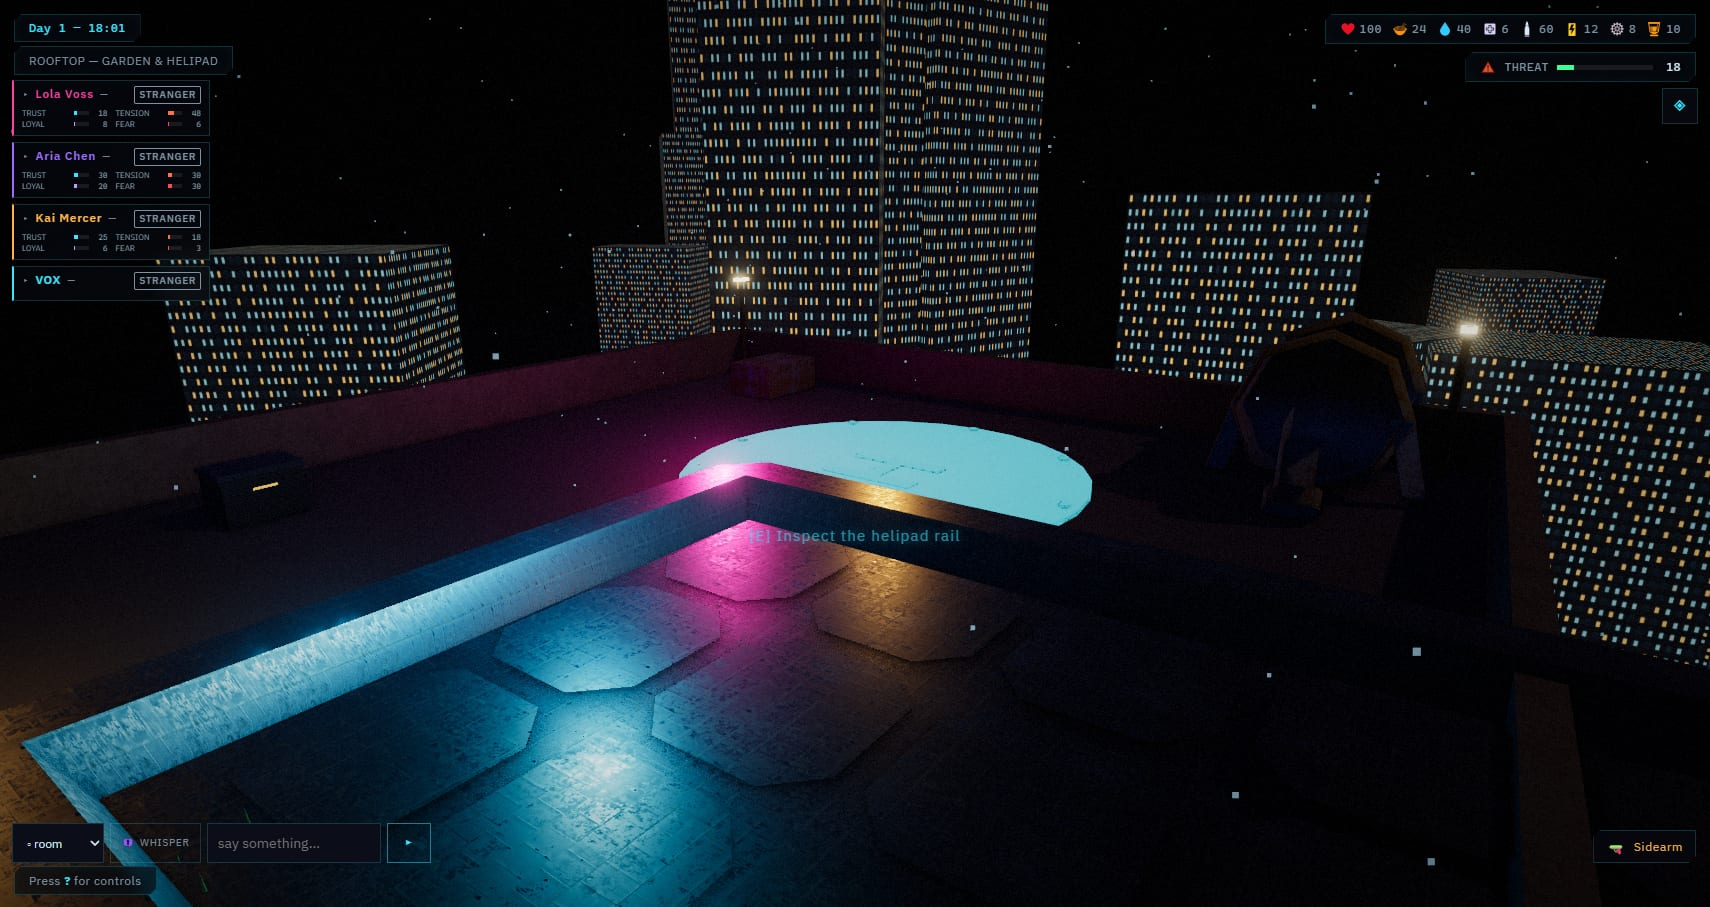
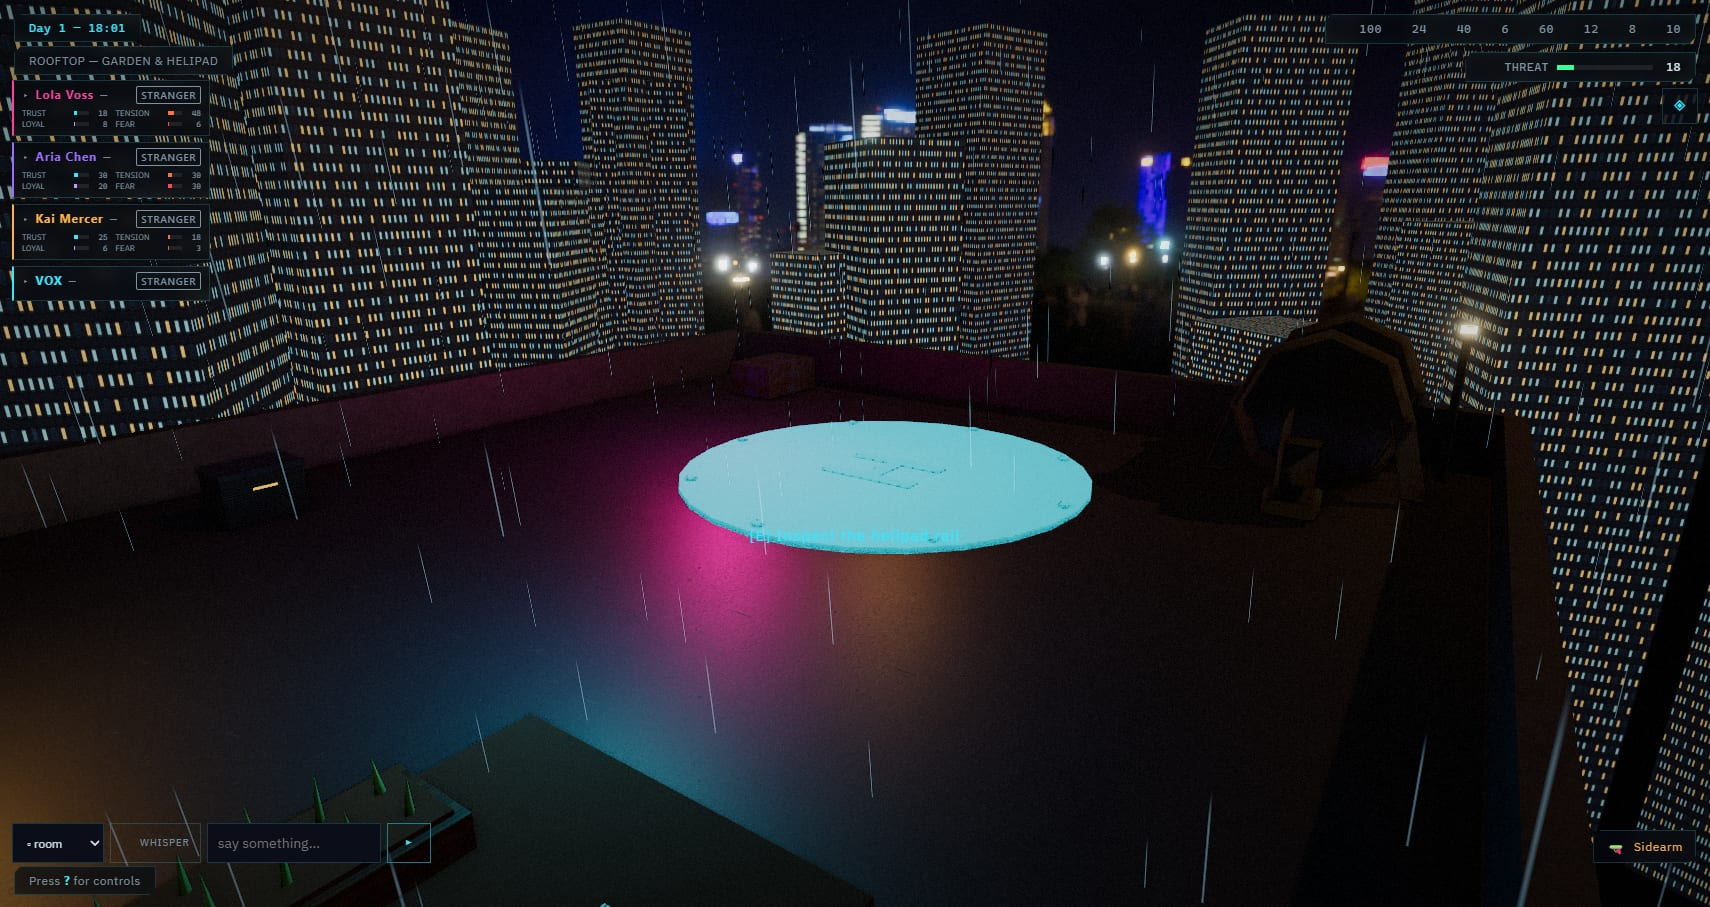
docs: v0.7.0-beta.1 — HDRI lighting, skyline dome, rain
Version bump, CHANGELOG entry, and doc coverage for what shipped in
beta.1 (tasks 17-20 + this stage's fix round): HDRI IBL with a
dip-and-swap crossfade, the folded skyline dome with per-tower window
offsets, reflect-boosted glossy architecture, and instanced rain with
droplets on exterior glass (interior panes stay dry).

- package.json, CHANGELOG.md, AGENTS.md (version + roadmap) to beta.1.
- AGENTS.md: new Architecture-spine bullet on shader patches — replace
  vs. chain ordering, keepPatchOnClone, test against r185's real
  ShaderLib.
- New docs/config/render.md (the render group was undocumented since
  Task 19 added render.hdri.*); linked from docs/config/README.md.
- docs/config/lighting.md: document the per-preset `ibl` block.
- docs/systems/scene-audio-ui.md: new "Environment & exterior"
  subsection covering EnvBuilder, Lighting's dip-and-swap, the dome,
  the towers, and rain.
- README: Procedural 3D bullet reflects HDRI/skyline/rain; real test
  counts (397 unit, 15 e2e); re-captured penthouse-lounge/bar/rooftop/
  exterior screenshots (the committed ones predated tasks 18-20); the
  alpha.2 before/after row now points at a frozen
  docs/screenshots/v0.7-alpha.2/ copy instead of the now-updated
  current one; added a v0.6-vs-beta.1 exterior before/after row (flat
  billboard skyline vs. the HDRI dome + rain).

diff --git a/docs/config/render.md b/docs/config/render.md
@@ -1,0 +1,84 @@
+# config/render.yaml
+
+The post-FX stack, shadow quality, and the HDRI behind image-based lighting and the
+exterior sky dome. Defaults in `data/configDefaults.js` → `render`, range-checked by
+`data/configSchema.js`. These are the same values the in-game Settings screen writes
+(`src/ui/settingsPanel.js` → `applyConfig`), so editing here changes the defaults a new
+player starts from. Read via `cfg('render.…')`.
+
+Before v0.5 every one of these was hard-coded across `src/scene3d/*`, so a player whose
+machine couldn't afford the post-FX stack had no way to turn any of it down.
+
+## Top-level
+
+| Key | Type | Default | Range | Effect |
+|-----|------|---------|-------|--------|
+| `shadows` | string | `soft` | `off` \| `hard` \| `soft` | `hard` is `PCFShadowMap` — one texel of penumbra, which reads as a jagged stencil at this map size. `soft` is `PCFSoftShadowMap`, the difference between "there is a shadow here" and "this thing is standing on this floor". Turn this down first if the game runs hot. |
+| `shadowMapSize` | number | `2048` | 512 \| 1024 \| 2048 \| 4096 | Per-side texels for the key light's shadow map. |
+| `fov` | number | `55` | 30–110 | Vertical field of view, degrees. Applies on reload (the camera is built once). |
+
+## `ao` — screen-space ambient occlusion
+
+Contact darkening in creases and where objects meet the floor (`src/scene3d/aoPass.js`).
+Without it, a PBR scene under an IBL environment fills every crevice with uniform ambient
+and everything reads as a decal sitting ON the floor rather than IN the room. Measured
+cost at 1912×961: about 1.5 ms/frame.
+
+| Key | Default | Range | Effect |
+|-----|---------|-------|--------|
+| `enabled` | `true` | boolean | Toggle the whole pass. |
+| `radius` | `0.45` | 0.05–3 | World-space sample radius, metres. |
+| `intensity` | `0.9` | 0–2 | 0 = no darkening, 1 = full occlusion in creases (values above 1 push it further). |
+| `bias` | `0.025` | 0.001–0.5 | Depth slack, metres — too low and flat surfaces self-occlude (acne). |
+| `samples` | `12` | 4–32 | Hemisphere taps per pixel; this is a shader `#define`, so changing it rebuilds the AO shader. |
+
+## `bloom`
+
+LINEAR HDR, applied BEFORE tone-mapping — `threshold` is not a 0..1 brightness. The default
+1.55 sits above lit skin and hair and below the neon core (~2.4), so only things that are
+actually emissive glow. Lowering it makes the cast's own specular highlights bloom into
+blobs on every head.
+
+| Key | Default | Range | Effect |
+|-----|---------|-------|--------|
+| `strength` | `0.42` | 0–3 | Bloom intensity. |
+| `radius` | `0.40` | 0–2 | Bloom spread. |
+| `threshold` | `1.55` | 0–8 | Linear-HDR cutoff below which nothing blooms. |
+
+## `grain`
+
+Film grain and vignette, applied after tone-mapping in display colour.
+
+| Key | Default | Range | Effect |
+|-----|---------|-------|--------|
+| `amount` | `0.055` | 0–0.4 | Grain strength. |
+| `vignette` | `0.42` | 0–1.5 | Edge darkening strength. |
+
+## `hdri` — image-based lighting + the exterior sky dome
+
+The HDRI is a photograph in **absolute radiance** (street lamps read ~20000), so it needs
+grading before it can light a scene tuned for a procedural sky well under 0.1. The quality
+preset picks the resolution (`assets/manifest.json` has `${id}_1k` and `${id}_2k`); the
+per-preset `lighting.presets.*.ibl` block (`docs/config/lighting.md`) grades it further —
+tint, exposure and rotation — on top of these.
+
+| Key | Default | Range | Effect |
+|-----|---------|-------|--------|
+| `id` | `shanghai_bund` | string | Which HDRI equirect (Poly Haven, CC0) to load for both the IBL capture and the visible dome. |
+| `gain` | `0.14` | 0–2 | Scales the photograph's raw radiance down to the IBL capture's level. Applies on the next environment rebuild. |
+| `clamp` | `3.0` | 1.05–20 | Soft-knee cap (knee at 1.0) on each texel's brightest channel — shared by the IBL capture **and** the visible dome, so a lamp core keeps its falloff instead of flattening at a hard cap in one but not the other. Too high: pin-sharp lamps in every eye and flaring skyline lamps. Too low: a flat, grey city. The dome reads this when its shader compiles (reload). |
+| `domeGain` | `0.1` | 0–2 | Separate level for the visible exterior dome behind the towers (the IBL capture uses `gain` instead — the dome is seen directly, the capture only lights reflections, so they're tuned independently). |
+
+`src/scene3d/env.js` builds the IBL capture (HDRI or procedural sky, plus the neon sign
+cards and warm floor bounce as local accents) and PMREM-prefilters it; the render target is
+cached and disposed on rebuild, not leaked. `src/scene3d/materials/skyDome.js` renders the
+same equirect directly behind the instanced towers, folded so its skyline half wraps the
+circle and its street-level half fades below the horizon (see
+`docs/systems/scene-audio-ui.md` → Environment & exterior).
+
+## See also
+
+- `docs/config/lighting.md` — per-preset `ibl` grading (`envIntensity`, `rotation`,
+  `skyTint`, `skyExposure`) and the dip-and-swap crossfade.
+- `docs/systems/scene-audio-ui.md` — `EnvBuilder`, `Lighting`, the dome, the towers and
+  rain, wired together.

diff --git a/docs/systems/scene-audio-ui.md b/docs/systems/scene-audio-ui.md
@@ -92,6 +92,52 @@ pattern for any new presentation layer.
   finishes, so nothing pops in as textures or models arrive late. The synchronous
   constructor still builds procedurally (no await) so unit tests stay fast.
 
+### Environment & exterior (`src/scene3d/env.js`, `lighting.js`, `tower/zoneBuilder.js`, `materials/`)
+- **`env.js` — `class EnvBuilder(stage)`** — builds the reflection-probe environment PMREM
+  prefilters: a small neon-noir procedural sky (gradient, horizon glow, sign cards, warm
+  floor bounce) by default, or, once `setHDRI(equirect)` is called, Poly Haven's
+  `shanghai_bund` night-city HDRI in its place (sign cards and floor bounce stay composited
+  in as local accents). `setHDRI` is a no-op if the equirect didn't change. The HDRI is
+  absolute-radiance photography, so the capture grades it through a small `HdriShader`:
+  `texel * skyTint * skyExposure * render.hdri.gain`, soft-knee capped at `render.hdri.clamp`
+  (`envMath.softKnee`, shared with the dome) — ungraded it turned skin chalk-white. The
+  render target is cached per rebuild and disposed, not leaked.
+- **`lighting.js` — `class Lighting`** — each preset's `ibl` block
+  (`envIntensity, rotation, skyTint, skyExposure`, `docs/config/lighting.md`) drives the
+  environment: `_envTarget` is the preset's `environmentIntensity`, and
+  `environmentRotation.y` follows `rotation`. `Lighting.apply(id, fade)` **dips** intensity
+  to 0, swaps the prefiltered map at the bottom (`_swapEnv`), then **brings it back** over
+  `ENV_DIP_SEC` (0.6 s) instead of hard-cutting every reflection in one frame; a preset
+  change mid-dip retargets the in-flight dip instead of popping (`envMath.retargetDip`).
+  `skyColor` lerps from the old preset's grade to the new one across the same fade and calls
+  `onSkyGrade?.(color)` each step — the dome subscribes to this. `await lighting.ready`
+  resolves once the initial `setHDRI` call settles.
+- **The dome (`tower/zoneBuilder.js`)** — `_showDome(ext, eq)` replaces the flat skyline
+  billboard plate with a `SphereGeometry(DOME_RADIUS=180, …)` behind the instanced towers,
+  textured with the same equirect and graded by `materials/skyDome.js`'s `onBeforeCompile`
+  patch (`gain: render.hdri.domeGain`, then the shared soft-knee `clamp`). The panorama's
+  skyline half is mirror-folded around the full circle (street-level facades folded out) and
+  the promenade below the horizon fades out; the dome is unfogged and doesn't write depth so
+  the instanced towers always render in front of it. `setSkyTexture(eq)` swaps dome ↔ plate
+  live; `setSkyGrade(color)` is the `onSkyGrade` sink, copying into a cached `THREE.Color` (no
+  per-frame allocation). The billboard plate remains the `?noassets=1` / no-equirect fallback.
+- **The towers (`materials/cityWindows.js`)** — `cityTowerMaterial(emissiveMap)` patches in
+  an instanced `aWinOffset` vec2 attribute added to `vEmissiveMapUv`, so each tower instance
+  samples a different offset into the shared window texture instead of every tower repeating
+  the same window pattern.
+- **Rain (`rain.js`, `materials/rainGlass.js`)** — `class RainStreaks(vol, rng, {density})` is
+  one instanced, camera-facing, velocity-aligned quad draw animated entirely in the vertex
+  shader from a single `uTime` uniform (no per-frame CPU work); `World3D.setRainDensity(d)`
+  scales streak count and, via the shared `RAIN_GLASS_UNIFORMS` (`uRain`, `uRainTime`), toggles
+  the droplet sheet on every rain-glass pane at once. `applyRainOnGlass` is an
+  `onBeforeCompile` patch that **chains** onto the material's existing one (see
+  `materials/reflectBoost.js` — glossy architecture's specular IBL lobe is boosted the same
+  way) rather than replacing it, extends the cache key, is idempotent under a repeat call, and
+  is applied only to **exterior** panes (curtain wall, wing window, lobby front); interior
+  panes (e.g. the fl40 blast-glass port) get the reflect boost only, via `interiorGlassMat()` —
+  no weather on either side of them. `rain.js` exports `TIME_WRAP` (3600 s) so the glass
+  uniform and the streak shader wrap on the same schedule.
+
 ### Asset facade (`src/assets/`)
 - **`assets.js` — `createAssets({loaders, enabled, base, fetchJson, manifestTimeoutMs, log})`** —
   the one door for binary assets. `init()` reads `assets/manifest.json` (10 s timeout); then

diff --git a/README.md b/README.md
@@ -82,7 +82,11 @@ generated or hand-authored**. The only third-party runtime dependency is three.j
   </tr>
   <tr>
     <td><img src="docs/screenshots/v0.6/03-penthouse-lounge.jpg" alt="Penthouse lounge, v0.6"><br><sub><b>Before (v0.6)</b> — the penthouse lounge on the old canvas textures.</sub></td>
-    <td><img src="docs/screenshots/03-penthouse-lounge.jpg" alt="Penthouse lounge, alpha.2"><br><sub><b>After (alpha.2)</b> — the same lounge on the PBR material library: world-scale UVs, bevelled hero furniture, measured tint and roughness.</sub></td>
+    <td><img src="docs/screenshots/v0.7-alpha.2/03-penthouse-lounge.jpg" alt="Penthouse lounge, alpha.2"><br><sub><b>After (alpha.2)</b> — the same lounge on the PBR material library: world-scale UVs, bevelled hero furniture, measured tint and roughness.</sub></td>
+  </tr>
+  <tr>
+    <td><img src="docs/screenshots/v0.6/16-exterior.jpg" alt="Exterior view, v0.6"><br><sub><b>Before (v0.6)</b> — the flat two-tone skyline billboard behind the towers.</sub></td>
+    <td><img src="docs/screenshots/16-exterior.jpg" alt="Exterior view, beta.1"><br><sub><b>After (beta.1)</b> — a real HDRI night city on a folded skyline dome, graded by the lighting preset, with rain streaking past the towers.</sub></td>
   </tr>
 </table>
 
@@ -114,9 +118,10 @@ generated or hand-authored**. The only third-party runtime dependency is three.j
   (procedural gait, pose clips, additive breathing, gaze). 14 zones across 7
   floors built from a PBR material library (Poly Haven scans, procedural
   fallback) with world-scale UVs and bevelled hero furniture, elevator
-  transit, 10 lighting presets, time-of-day, a procedural city backdrop,
-  rain, news-ticker monitors, and **openable velvet curtains** that draw
-  across the glass to shut out the city.
+  transit, 10 lighting presets, time-of-day, an HDRI night-city skyline and
+  image-based lighting graded per lighting preset, instanced rain with
+  droplets on the glass, news-ticker monitors, and **openable velvet
+  curtains** that draw across the glass to shut out the city.
 - **New-game flow & roguelike.** A main menu picks from 15 scenarios (three earned by play) and 3
   starting loadouts (Fixer / Survivor / Gunhand), continues an autosave, or opens
   the codex. Day/night ticks, rationing, a resource economy, system damage &
@@ -232,8 +237,8 @@ API references, the gameplay loop, and the event catalog.
 ## Development
 
 ```bash
-npm test                              # node --test — 363 unit tests (stats, bond, dialogue, combat, sim…)
-npm run test:e2e                      # playwright — 13 end-to-end tests in a real headless browser
+npm test                              # node --test — 397 unit tests (stats, bond, dialogue, combat, sim…)
+npm run test:e2e                      # playwright — 15 end-to-end tests in a real headless browser
 npm run test:all                      # unit + linters + e2e
 node tools/lint-data.mjs              # validate all content modules + cross-references
 node tools/lint-config.mjs            # validate config/*.yaml against data/configSchema.js

diff --git a/CHANGELOG.md b/CHANGELOG.md
@@ -3,6 +3,43 @@
 All notable changes to Neon-City: Lock-Down. This project adheres to
 [semantic versioning](https://semver.org/).
 
+## [0.7.0-beta.1] — 2026-09-28 — The city outside
+
+The world beyond the glass. Real image-based lighting, a real skyline, and
+rain that reads as rain — each with the procedural version as its fallback.
+
+### Added
+- **HDRI image-based lighting.** Poly Haven's `shanghai_bund` night city
+  (2K) replaces the gradient sky inside the PMREM capture; the neon sign cards
+  and the warm floor bounce are still composited in as local accents. Every
+  lighting preset now carries an `ibl` block — reflection strength, a rotation,
+  and a sky tint × exposure (a blackout darkens the city).
+- **Environment crossfade.** A preset change dips `environmentIntensity` to 0,
+  swaps the prefiltered map at the bottom, and brings it back over 0.6 s, instead
+  of hard-cutting every reflection in the room in one frame.
+- **Skyline dome.** The flat skyline billboard is replaced by the HDRI rendered
+  on a sphere behind the instanced towers, graded by the same preset. The
+  billboard remains the fallback.
+- **Emissive city windows** with a per-tower offset into the window texture, so
+  the towers no longer repeat each other's windows.
+- **Reflect boost on glossy architecture.** Glass, polished tile, marble and
+  brushed metal reflect the city harder than skin/hair/cloth do (a second
+  factor on the specular IBL lobe only), since `scene.environmentIntensity`
+  overwrites `envMapIntensity` on every draw.
+- **Rain streaks** — one instanced, velocity-aligned, camera-facing draw
+  animated in the vertex shader (it was 500 points moved by a CPU loop every
+  frame) — and **rain on the glass**: a droplet sheet on the exterior
+  curtain-wall panes that bends reflections and catches the light. Interior
+  panes with no weather on the far side keep the reflect boost only.
+- `render.hdri.{id,gain,clamp,domeGain}` in `config/render.yaml`.
+
+### Fixed
+- Shader `onBeforeCompile` patches now survive `Material.clone()`/`.copy()`,
+  which carry neither the instance `onBeforeCompile` nor
+  `customProgramCacheKey`.
+- The PMREM render target is cached and disposed instead of leaking one per
+  environment rebuild.
+
 ## [0.7.0-alpha.2] — 2026-09-28 — Surfaces
 
 The tower stops looking like untextured boxes. Every shell and furniture

diff --git a/AGENTS.md b/AGENTS.md
@@ -9,7 +9,7 @@ tower (three.js, no bundler, no build step). The player is locked in a
 penthouse with three autonomous NPCs while riots and faction wars tear up the
 streets below — chat-first roleplay, day/night survival, combat, and
 mini-games, all driven by an offline dialogue engine with an optional LLM
-adapter for surface-text restyling. Current version: **0.7.0-alpha.2**, sub-project 2 of the 7-part upgrade (asset pipeline + render quality).
+adapter for surface-text restyling. Current version: **0.7.0-beta.1**, sub-project 2 of the 7-part upgrade (asset pipeline + render quality).
 
 ## Run / test / lint
 
@@ -72,6 +72,19 @@ After any UI change a README screenshot shows, re-run the matching shot
   changing anything on it); its tint IS the displayed colour (measured
   against the scan's own mean albedo), and its roughness is honoured against
   the scan's measured `scanRoughness`, not overwritten.
+- **Shader patches** (`src/scene3d/materials/{reflectBoost,rainGlass,cityWindows,skyDome,patchClone}.js`)
+  — an `onBeforeCompile` patch either **replaces** `material.onBeforeCompile`
+  outright (`patchReflectBoost`, `patchWindowOffsets`, `skyDomeMaterial`) or
+  **chains** the material's existing one and extends its cache key
+  (`applyRainOnGlass`). A replace-type patch must be applied to the material
+  BEFORE any chaining patch is layered on top — chaining first and replacing
+  after silently drops the chained layer. Every patch installs
+  `keepPatchOnClone(material, reapply)` so `Material.clone()`/`.copy()`
+  (which carry neither the instance `onBeforeCompile` nor
+  `customProgramCacheKey`) come back re-patched. Test a patch against r185's
+  REAL `THREE.ShaderLib` source (see `test/unit/shaderpatch.test.mjs`), not a
+  stand-in string — three renames `#include` chunk names between releases,
+  and a missing anchor makes `.replace()` a silent no-op.
 
 ## Blender (dev tool, optional)
 
@@ -151,7 +164,7 @@ node tools/blender/run.mjs preview <in> <out.png>                  # 512² EEVEE
 0.7 is sub-project 2 of a 7-part upgrade:
 
 1. Content cleanse + bonds (v0.6, released)
-2. Asset pipeline + render quality (this sub-project, at alpha.2)
+2. Asset pipeline + render quality (this sub-project, at beta.1)
 3. GLTF characters
 4. Survival/lockdown loop
 5. Combat and stealth

diff --git a/docs/config/lighting.md b/docs/config/lighting.md
@@ -27,6 +27,25 @@ Each preset:
 Colors are `0xRRGGBB` integers (YAML parses `0x…` as an int). Values not present fall back
 to the baked default, so partial preset edits are safe.
 
+## `ibl` — per-preset HDRI grading
+
+Each preset also carries an `ibl` block (`data/lightingPresets.js`, range-checked by
+`data/configSchema.js`) that grades the HDRI environment (`render.hdri`, see
+`docs/config/render.md`) for that preset:
+
+| Key | Range | Meaning |
+|-----|-------|---------|
+| `envIntensity` | 0–3 | This preset's own `scene.environmentIntensity` target — distinct from the top-level `envIntensity` key below, which is the baked default before any preset overrides it. |
+| `rotation` | any number, radians | Yaw applied to `scene.environmentRotation.y` — turns the reflected skyline without moving the visible dome. |
+| `skyTint` | `0xRRGGBB`, 0–0xffffff | Colour multiplied into the HDRI before it enters the IBL capture and the dome. |
+| `skyExposure` | 0–4 | Brightness multiplier alongside `skyTint` — together they're `render.hdri.gain`'s per-preset modifier. |
+
+Example — `blackout_emergency` darkens and reddens the city instead of showing it at full
+brightness: `ibl: { envIntensity: 0.15, rotation: 0, skyTint: 0x6a5060, skyExposure: 0.25 }`.
+A preset change dips `environmentIntensity` to 0, swaps the prefiltered map, then grades
+`skyColor` in with `onSkyGrade` as it fades back in — see `Lighting.apply()` and
+`src/scene3d/envMath.js` (`dipAndSwap`, pure and unit-tested).
+
 ## `envIntensity` / `hemiScale` — image-based lighting
 
 | Key | Default | Range | Meaning |

diff --git a/docs/config/README.md b/docs/config/README.md
@@ -76,7 +76,7 @@ verifies the defaults themselves satisfy the schema, catching default/schema dri
 | humanoid | `config/humanoid.yaml` | [humanoid.md](humanoid.md) |
 | world | `config/world.yaml` | [world.md](world.md) |
 | lighting | `config/lighting.yaml` | [lighting.md](lighting.md) |
-| render | `config/render.yaml` | shadows, AO, bloom, grain, FOV — documented inline in `data/configDefaults.js` |
+| render | `config/render.yaml` | [render.md](render.md) — shadows, AO, bloom, grain, FOV, `render.hdri.{id,gain,clamp,domeGain}` |
 | llm | `config/llm.yaml` | [llm.md](llm.md) |
 | voice | `config/voice.yaml` | [systems/voice.md](../systems/voice.md) |
 
